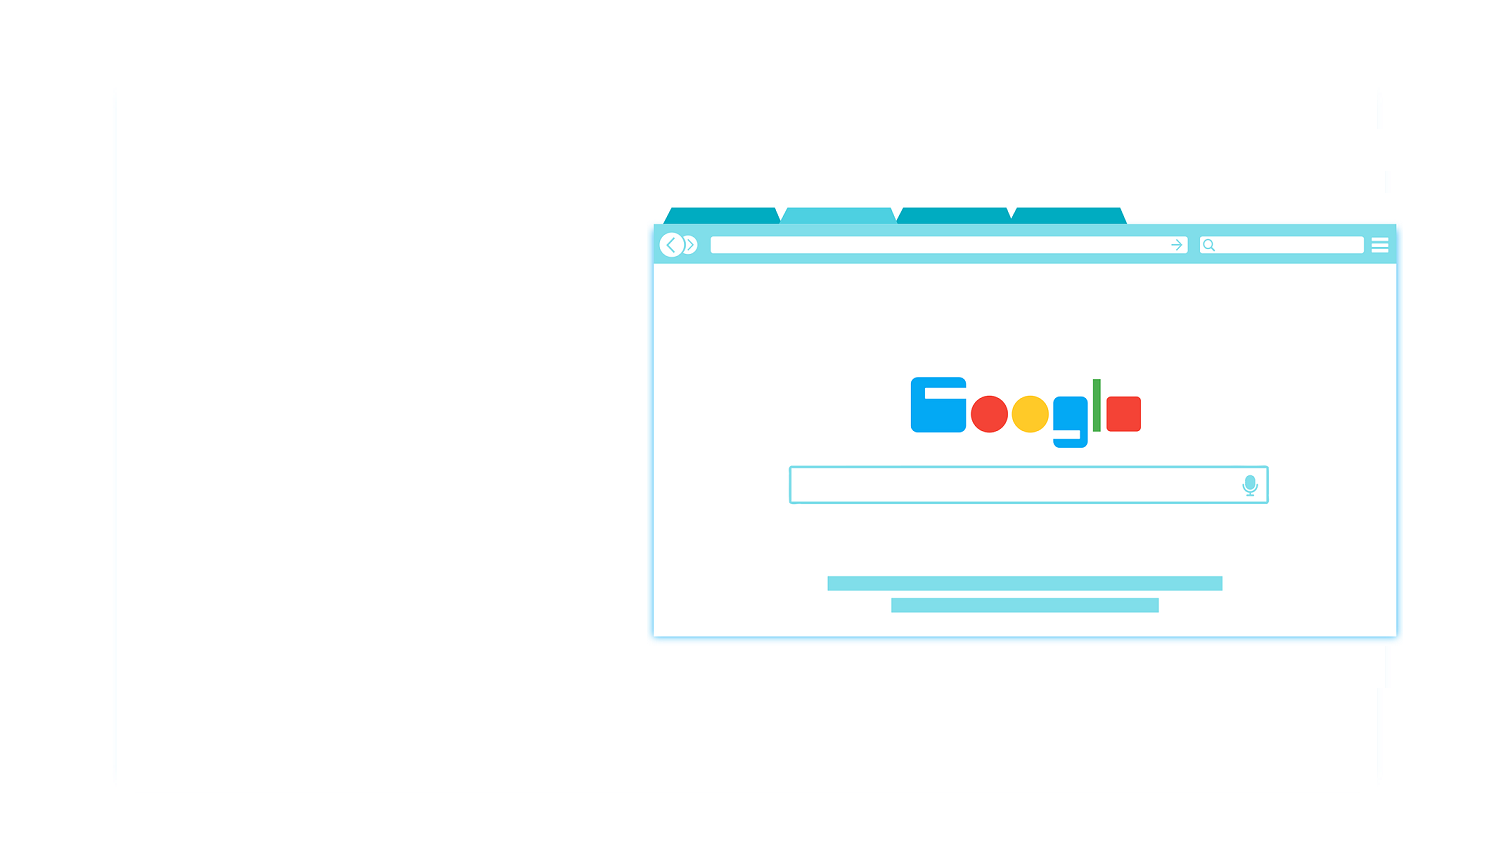
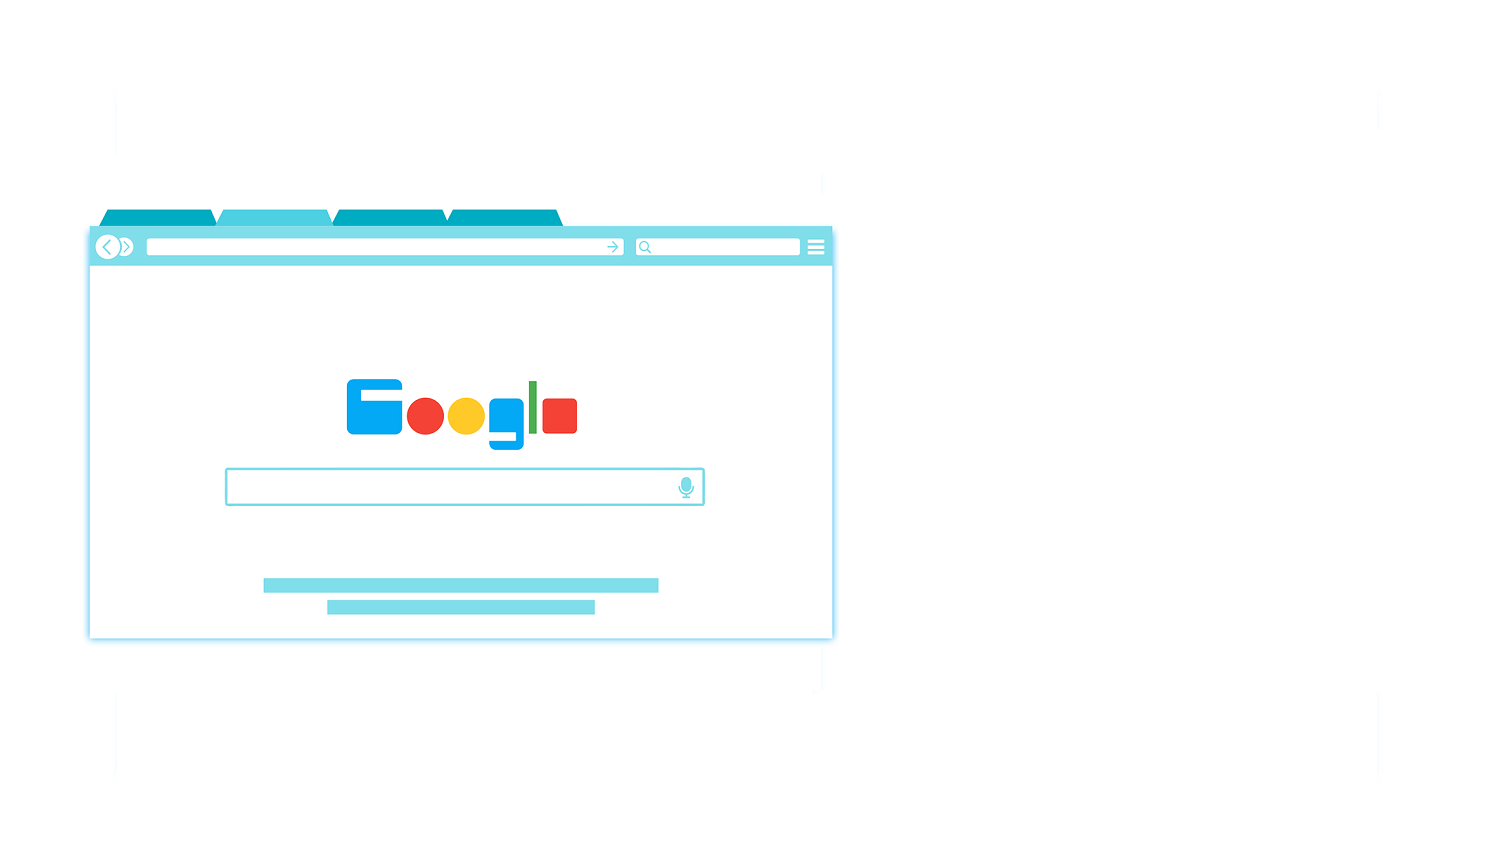
mise en place des offres

Changed region(s): [[0.0307, 0.2433, 0.9507, 0.7602], [0.2147, 0.4257, 0.3987, 0.5474]]

diff --git a/pages/index.js b/pages/index.js
@@ -9,19 +9,41 @@ import AccordionDetails from '@material-ui/core/AccordionDetails';
 import Typography from '@material-ui/core/Typography';
 import ExpandMoreIcon from '@material-ui/icons/ExpandMore';
 import Button from '@material-ui/core/Button';
+import { makeStyles } from '@material-ui/core/styles';
 
 
 //Styles
 import styles from '../styles/Home.module.css'
 
+const useStyles = makeStyles((theme) => ({
+  root: {
+    width: '100%',
+  },
+  titleAccordion: {
+    background: '#44bac4',
+  },
+  details: {
+    background: '#ededeb',
+  },
+  heading: {
+    fontSize: theme.typography.pxToRem(15),
+    fontWeight: '200',
+    fontWeight: theme.typography.fontWeightRegular,
+  },
+}));
 
 export default function Home({ allPosts: { edges } }) {
- 
+  const classes = useStyles();
+
   const [bgOffre, setBgOffre] = useState({});
   const [bgPath, setBgPath] = useState('/bg_offre.png');
 
-  const offreSection = useRef(null);
-  const executeScroll = () => offreSection.current.scrollIntoView({ behavior: 'smooth', block: 'center' });
+  const servicesSection = useRef(null);
+  const prestaSection = useRef(null);
+
+  const executeScroll = () => servicesSection.current.scrollIntoView({ behavior: 'smooth', block: 'center' });
+
+  const executeScroll2 = () => prestaSection.current.scrollIntoView({ behavior: 'smooth', block: 'center' });
 
   useEffect(() => {
     const setBackground = () => {
@@ -73,10 +95,10 @@ export default function Home({ allPosts: { edges } }) {
       </section>
 
 
-      <section ref={offreSection} className={styles.offre} style={bgOffre}>
+      <section ref={servicesSection} className={styles.services} style={bgOffre}>
         <div className={styles.boxContainer}>
           <div className={styles.sideLeft}>
-            <Accordion onClick={() => setBgPath('/siteweb.png')}>
+            <Accordion className={classes.titleAccordion} onClick={() => setBgPath('/siteweb.png')}>
               <AccordionSummary
                 expandIcon={<ExpandMoreIcon />}
                 aria-controls="panel1a-content"
@@ -84,14 +106,14 @@ export default function Home({ allPosts: { edges } }) {
               >
                 <Typography>Présentez-votre activité</Typography>
               </AccordionSummary>
-              <AccordionDetails>
+              <AccordionDetails className={classes.details}>
                 <Typography>
                   Lorem ipsum dolor sit amet, consectetur adipiscing elit. Suspendisse malesuada lacus ex,
                   sit amet blandit leo lobortis eget.
                 </Typography>
               </AccordionDetails>
             </Accordion>
-            <Accordion onClick={() => setBgPath('/web-store.png')}>
+            <Accordion className={classes.titleAccordion} onClick={() => setBgPath('/web-store.png')}>
               <AccordionSummary
                 expandIcon={<ExpandMoreIcon />}
                 aria-controls="panel1a-content"
@@ -99,14 +121,14 @@ export default function Home({ allPosts: { edges } }) {
               >
                 <Typography>Vendez sur internet</Typography>
               </AccordionSummary>
-              <AccordionDetails>
+              <AccordionDetails className={classes.details}>
                 <Typography>
                   Lorem ipsum dolor sit amet, consectetur adipiscing elit. Suspendisse malesuada lacus ex,
                   sit amet blandit leo lobortis eget.
                 </Typography>
               </AccordionDetails>
             </Accordion>
-            <Accordion onClick={() => setBgPath('/social-media.png')}>
+            <Accordion className={classes.titleAccordion} onClick={() => setBgPath('/social-media.png')}>
               <AccordionSummary
                 expandIcon={<ExpandMoreIcon />}
                 aria-controls="panel1a-content"
@@ -114,20 +136,78 @@ export default function Home({ allPosts: { edges } }) {
               >
                 <Typography>Développez-votre clientèle</Typography>
               </AccordionSummary>
-              <AccordionDetails>
+              <AccordionDetails className={classes.details}>
                 <Typography>
                   Lorem ipsum dolor sit amet, consectetur adipiscing elit. Suspendisse malesuada lacus ex,
                   sit amet blandit leo lobortis eget.
                 </Typography>
               </AccordionDetails>
             </Accordion>
+            <div className={styles.scrollBtn}>
+            <Button 
+              onClick={executeScroll2} 
+              variant="contained" 
+              color="primary"
+              > Prestations <ExpandMoreIcon />
+            </Button>
           </div>
-          <div className={styles.sideRight}>
-
           </div>
         </div>
       </section>
 
+
+      <section ref={prestaSection} className={styles.offres}>
+        <div className={styles.presta}>
+          <div className={styles.headerPresta}>
+            <h1 className={styles.prestaName}>Essentielle</h1>
+            <h4 className={styles.price}>950 €</h4>
+          </div>
+          <div className={styles.separator}></div>
+          <p className={styles.prestaDescription}>L'essentiel pour présenter son activité. Un site internet professionnel avec la possibité d'editer son contenu, rajouter des articles ou des galleries d'images en toute autonomie.</p>
+          <ul className={styles.prestaDetails}>
+            <li>- Site vitrine</li>
+            <li>- Thème personnalisé</li>
+            <li>- Gestion de contenu</li>
+            <li>- Optimisation référencement</li>
+            <li>- Responsive, adapté à l'usage mobile</li>
+          </ul>
+        </div>
+        <div className={styles.presta}>
+          <div className={styles.headerPresta}>
+            <h1 className={styles.prestaName}>Globale</h1>
+            <div className={styles.priceGlobale}>
+              <h4 className={styles.price}>1490 €</h4>
+              <p className={styles.price2}>ou 950 € + 45 € / mois sur 12 mois</p>
+            </div>
+          </div>
+          <div className={styles.separator}></div>
+          <p className={styles.prestaDescription}>Comprend les prestations essentielles, la mise en oeuvre d'une stratégie de référencement pour augmenter votre visibilité et la maintenance de votre site pendant un an.</p>
+          <ul className={styles.prestaDetails}>
+            <li>- Site vitrine</li>
+            <li>- Thème personnalisé</li>
+            <li>- Gestion de contenu</li>
+            <li>- Maintenance du site internet</li>
+            <li>- Responsive, adapté à l'usage mobile</li>
+            <li>- Stratégie de référencement globale</li>
+            <li>- Acompagnement présence réseaux sociaux</li>
+          </ul>
+        </div>
+        <div className={styles.presta}>
+          <div className={styles.headerPresta}>
+            <h1 className={styles.prestaName}>E-commerce</h1>
+            <h4 className={styles.price}>à partir de 2200 €</h4>
+          </div>
+          <div className={styles.separator}></div>
+          <p className={styles.prestaDescription}>Pour vendre sur internet, création d'une e-boutique avec module de paiement sécurisé.</p>
+          <ul className={styles.prestaDetails}>
+            <li>- Boutique e-commerce avec certificat SSL</li>
+            <li>- Thème personnalisé</li>
+            <li>- Module de paiement sécurisé</li>
+            <li>- Dashboard pour la gestion des commandes et livraisons</li>
+            
+          </ul>
+        </div>
+      </section>
 
       <section className={styles.realisations}>
         <ul>

diff --git a/styles/Home.module.css b/styles/Home.module.css
@@ -52,29 +52,108 @@
 .boxContainer {
   width: 100%;
   height: 100vh;
-  background-color: rgba(0,0,0,0.2);
+  
   display: flex;
   align-items: center;
-  justify-content: center;
+  justify-content: flex-end;
 }
 
 .sideLeft {
   min-height: 100vh;
-  width: 30%;
+  width: 35%;
+  margin: auto 3rem;
   display: flex;
   align-items: center;
   justify-content: center;
   flex-direction: column;
-  margin: 0 2rem;
 }
 
-.sideRight {
-  width: 70%
+.titleAccordion {
+  background: gray;
+}
+
+.offres {
+  min-height: 100vh;
+  display: flex;
+  align-items: center;
+  justify-content: center;
+  background: rgb(255,255,255);
+  background: linear-gradient(180deg, rgba(255,255,255,1) 56%, rgba(68,186,196,1) 56%);
+}
+
+.presta {
+  background: #ffffff;
+  width: 30%;
+  min-height: 60vh;
+  margin: 1rem;
+  box-sizing: border-box;
+  display: flex;
+  flex-direction: column;
+  align-items: center;
+  justify-content: flex-start;
+  border: 1px solid #888270;
+  border-radius: 8px;
+  padding: 2rem;
+}
+
+.headerPresta {
+  min-height: 15vh;
+  display: flex;
+  flex-direction: column;
+  align-items: center;
+  justify-content: flex-start;
+}
+
+.prestaName {
+  font-size: 28px;
+  font-weight: 400;
+  color: #2d878f;
+  margin-bottom: 1rem;
+  text-transform: uppercase;
+}
+
+.price {
+  color: #888270;
+  font-size: 32px;
+  font-weight: 200;
+  font-style: italic;
+}
+
+.priceGlobale {
+  display: flex;
+  flex-direction: column;
+  align-items: center;
+}
+
+.price2 {
+  color: #888270;
+  font-size: 16px;
+  font-weight: 200;
+  font-style: italic;
+  margin-top: 1rem;
+  margin-bottom: 2rem;
+}
+
+.separator {
+  width: 100%;
+  height: 1px;
+  background-color: #888270;
+  margin: 1rem;
+}
+
+.prestaDescription {
+  margin-bottom: 1rem;
+  font-weight: 400;
+  font-style: italic;
 }
 
 .realisations {
   margin-top: 2rem;
   display: none;
+}
+
+.prestaDetails {
+  line-height: normal;
 }
 
 
